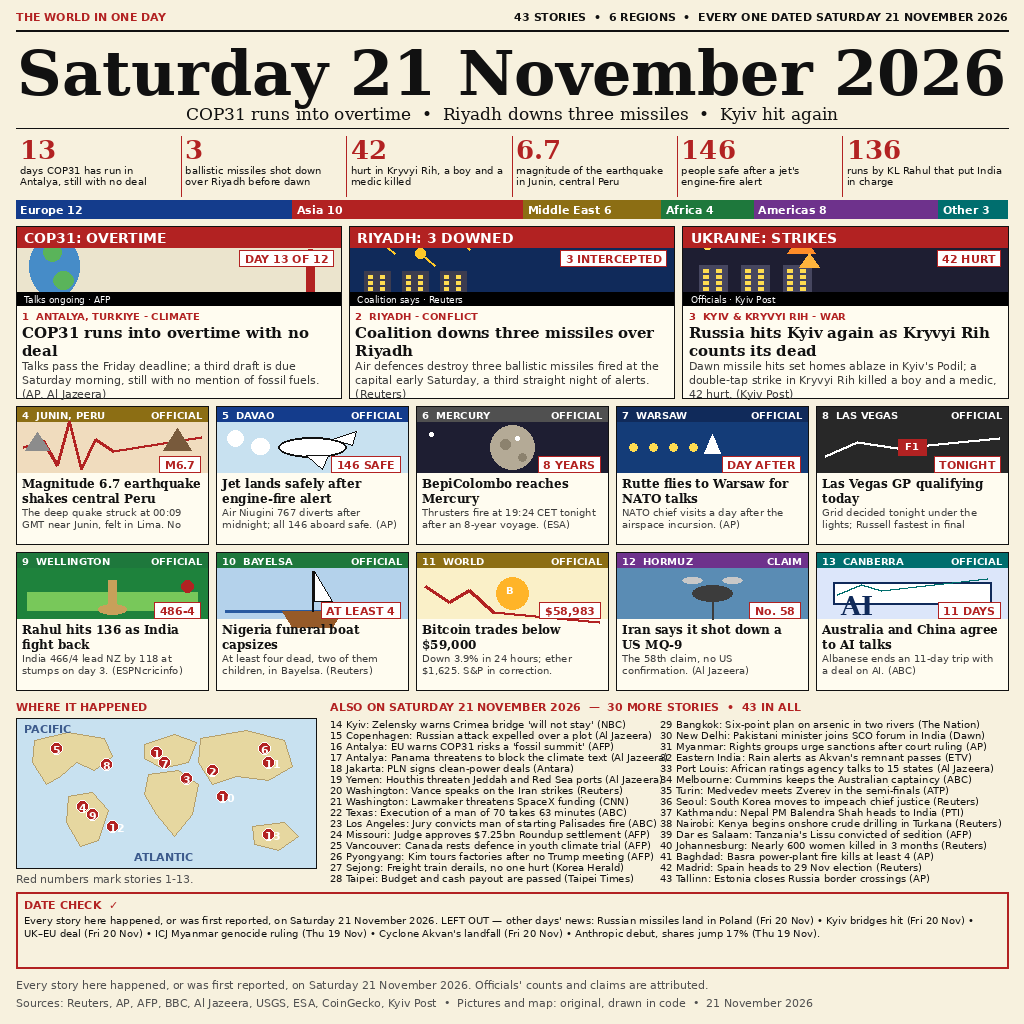
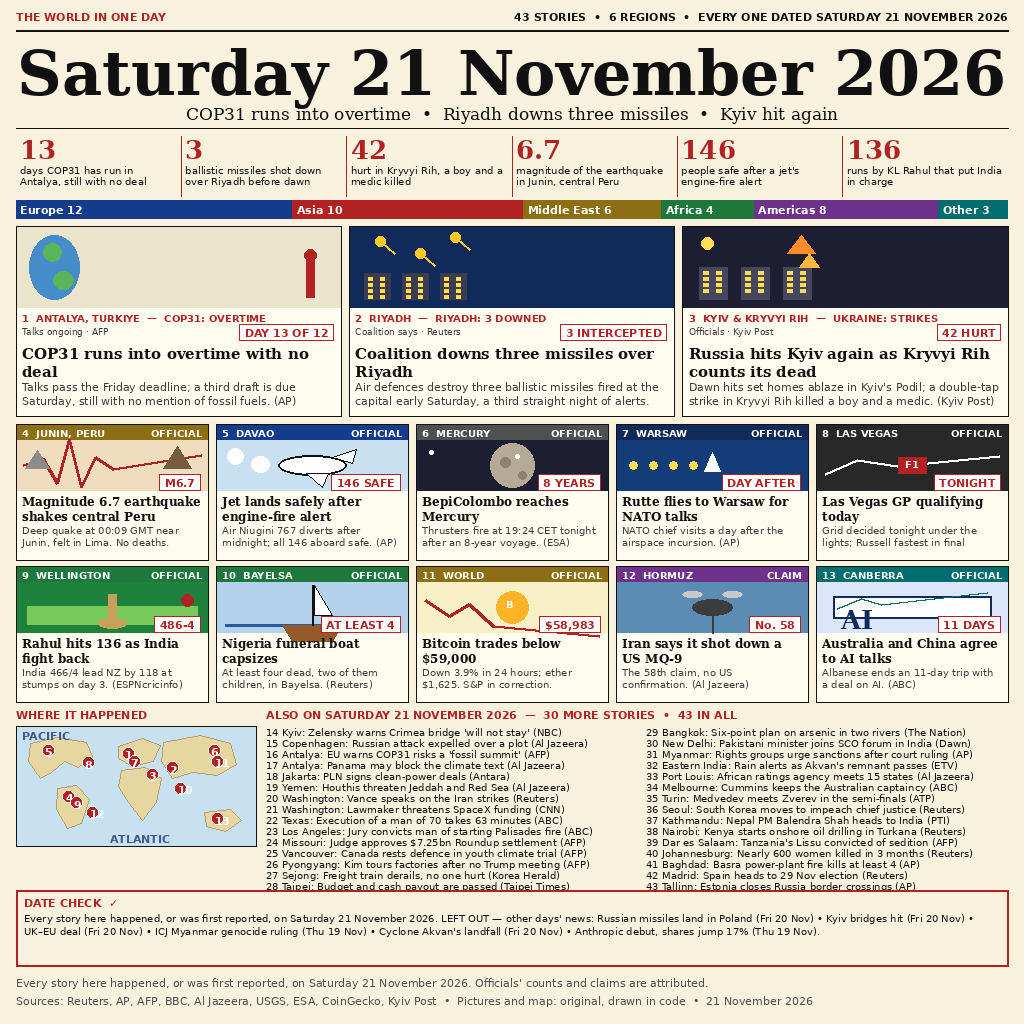
The World Today v5 — 21 November 2026: 43 dated stories, 13 illustrated cards

Changed region(s): [[0.0, 0.2188, 1.0, 1.0]]

diff --git a/draw.py b/draw.py
@@ -155,23 +155,23 @@ def pic(d, kind, x, y, w, h):
 
 # n, tag, strip colour, picture, banner, badge, caption, headline, summary, status
 HEROES = [
-    dict(n=1, tag="ANTALYA, TURKIYE - CLIMATE", col=TEAL, kind="globe",
+    dict(n=1, tag="ANTALYA, TURKIYE", col=TEAL, kind="globe",
          banner="COP31: OVERTIME", stat="DAY 13 OF 12", cap="Talks ongoing · AFP",
          head="COP31 runs into overtime with no deal",
-         body="Talks pass the Friday deadline; a third draft is due Saturday morning, still with no mention of fossil fuels. (AP, Al Jazeera)", st="OFFICIAL"),
-    dict(n=2, tag="RIYADH - CONFLICT", col=NAVY, kind="missile",
+         body="Talks pass the Friday deadline; a third draft is due Saturday, still with no mention of fossil fuels. (AP)", st="OFFICIAL"),
+    dict(n=2, tag="RIYADH", col=NAVY, kind="missile",
          banner="RIYADH: 3 DOWNED", stat="3 INTERCEPTED", cap="Coalition says · Reuters",
          head="Coalition downs three missiles over Riyadh",
          body="Air defences destroy three ballistic missiles fired at the capital early Saturday, a third straight night of alerts. (Reuters)", st="OFFICIAL"),
-    dict(n=3, tag="KYIV & KRYVYI RIH - WAR", col=RED, kind="kyiv",
+    dict(n=3, tag="KYIV & KRYVYI RIH", col=RED, kind="kyiv",
          banner="UKRAINE: STRIKES", stat="42 HURT", cap="Officials · Kyiv Post",
          head="Russia hits Kyiv again as Kryvyi Rih counts its dead",
-         body="Dawn missile hits set homes ablaze in Kyiv's Podil; a double-tap strike in Kryvyi Rih killed a boy and a medic, 42 hurt. (Kyiv Post)", st="REPORTED"),
+         body="Dawn hits set homes ablaze in Kyiv's Podil; a double-tap strike in Kryvyi Rih killed a boy and a medic. (Kyiv Post)", st="REPORTED"),
 ]
 SMALLS = [
     dict(n=4, tag="JUNIN, PERU", col=(140, 110, 20), kind="quake",
          stat="M6.7", head="Magnitude 6.7 earthquake shakes central Peru",
-         body="The deep quake struck at 00:09 GMT near Junin, felt in Lima. No deaths reported. (USGS)", st="OFFICIAL"),
+         body="Deep quake at 00:09 GMT near Junin, felt in Lima. No deaths. (USGS)", st="OFFICIAL"),
     dict(n=5, tag="DAVAO", col=(20, 60, 140), kind="plane",
          stat="146 SAFE", head="Jet lands safely after engine-fire alert",
          body="Air Niugini 767 diverts after midnight; all 146 aboard safe. (AP)", st="OFFICIAL"),
@@ -204,9 +204,9 @@ MORE = [
     "14 Kyiv: Zelensky warns Crimea bridge 'will not stay' (NBC)",
     "15 Copenhagen: Russian attack expelled over a plot (Al Jazeera)",
     "16 Antalya: EU warns COP31 risks a 'fossil summit' (AFP)",
-    "17 Antalya: Panama threatens to block the climate text (Al Jazeera)",
+    "17 Antalya: Panama may block the climate text (Al Jazeera)",
     "18 Jakarta: PLN signs clean-power deals (Antara)",
-    "19 Yemen: Houthis threaten Jeddah and Red Sea ports (Al Jazeera)",
+    "19 Yemen: Houthis threaten Jeddah and Red Sea (Al Jazeera)",
     "20 Washington: Vance speaks on the Iran strikes (Reuters)",
     "21 Washington: Lawmaker threatens SpaceX funding (CNN)",
     "22 Texas: Execution of a man of 70 takes 63 minutes (ABC)",
@@ -220,12 +220,12 @@ MORE = [
     "30 New Delhi: Pakistani minister joins SCO forum in India (Dawn)",
     "31 Myanmar: Rights groups urge sanctions after court ruling (AP)",
     "32 Eastern India: Rain alerts as Akvan's remnant passes (ETV)",
-    "33 Port Louis: African ratings agency talks to 15 states (Al Jazeera)",
+    "33 Port Louis: African ratings agency meets 15 states (Al Jazeera)",
     "34 Melbourne: Cummins keeps the Australian captaincy (ABC)",
     "35 Turin: Medvedev meets Zverev in the semi-finals (ATP)",
     "36 Seoul: South Korea moves to impeach chief justice (Reuters)",
     "37 Kathmandu: Nepal PM Balendra Shah heads to India (PTI)",
-    "38 Nairobi: Kenya begins onshore crude drilling in Turkana (Reuters)",
+    "38 Nairobi: Kenya starts onshore oil drilling in Turkana (Reuters)",
     "39 Dar es Salaam: Tanzania's Lissu convicted of sedition (AFP)",
     "40 Johannesburg: Nearly 600 women killed in 3 months (Reuters)",
     "41 Baghdad: Basra power-plant fire kills at least 4 (AP)",
@@ -235,19 +235,17 @@ MORE = [
 
 def hero_card(d, x, y, w, h, c):
     d.rectangle([x, y, x + w, y + h], outline=INK, width=1, fill=CREAM)
-    pic(d, c["kind"], x + 1, y + 1, w - 2, 78)
-    d.rectangle([x + 1, y + 1, x + w - 1, y + 21], fill=RED)
-    d.text((x + 8, y + 4), c["banner"], font=F_BANNER, fill=(255, 255, 255))
-    badge(d, x + w - 8 - (d.textlength(c["stat"], font=F_BADGE) + 10), y + 24, c["stat"])
-    d.rectangle([x + 1, y + 66, x + w - 1, y + 79], fill=(0, 0, 0))
-    d.text((x + 8, y + 68), c["cap"], font=F_CAP, fill=(255, 255, 255))
-    ty = y + 84
-    d.text((x + 6, ty), f"{c['n']}  {c['tag']}", font=F_TAG, fill=RED)
-    ty += 13
+    pic(d, c["kind"], x + 1, y + 1, w - 2, 80)
+    ty = y + 86
+    d.text((x + 6, ty), f"{c['n']}  {c['tag']}  —  {c['banner']}", font=F_TAG, fill=RED)
+    ty += 14
+    d.text((x + 6, ty), c["cap"], font=F_CAP, fill=DIM)
+    badge(d, x + w - 8 - (d.textlength(c["stat"], font=F_BADGE) + 10), ty - 2, c["stat"])
+    ty += 18
     for ln in wrap(d, c["head"], F_H, w - 12)[:2]:
         d.text((x + 6, ty), ln, font=F_H, fill=INK)
         ty += 18
-    for ln in wrap(d, c["body"], F_B, w - 12)[:3]:
+    for ln in wrap(d, c["body"], F_B, w - 12)[:2]:
         d.text((x + 6, ty), ln, font=F_B, fill=DIM)
         ty += 14
 
@@ -268,6 +266,11 @@ def small_card(d, x, y, w, h, c):
 
 def draw_map(d, mx, my, mw, mh):
     d.rectangle([mx, my, mx + mw, my + mh], fill=(200, 225, 240), outline=INK)
+    sx, sy = mw / 300.0, mh / 150.0
+    def X(px):
+        return mx + px * sx
+    def Y(py):
+        return my + py * sy
     # Rough continents as polygons, in map-local coordinates.
     na = [(18, 22), (52, 14), (88, 20), (96, 38), (78, 52), (60, 44), (44, 58), (30, 66), (16, 44)]
     sa = [(52, 78), (76, 74), (92, 92), (82, 122), (64, 128), (50, 104)]
@@ -276,13 +279,13 @@ def draw_map(d, mx, my, mw, mh):
     asia = [(184, 20), (230, 12), (268, 22), (276, 48), (252, 62), (220, 58), (196, 66), (182, 44)]
     au = [(236, 108), (268, 104), (282, 118), (262, 132), (238, 126)]
     for poly in (na, sa, eu, af, asia, au):
-        d.polygon([(mx + px, my + py) for px, py in poly], fill=(230, 215, 160), outline=(180, 160, 110))
-    d.text((mx + 8, my + 4), "PACIFIC", font=F_SB, fill=(60, 90, 140))
-    d.text((mx + 118, my + 132), "ATLANTIC", font=F_SB, fill=(60, 90, 140))
+        d.polygon([(X(px), Y(py)) for px, py in poly], fill=(230, 215, 160), outline=(180, 160, 110))
+    d.text((X(8), Y(4)), "PACIFIC", font=F_SB, fill=(60, 90, 140))
+    d.text((X(118), Y(132)), "ATLANTIC", font=F_SB, fill=(60, 90, 140))
     pins = [(140, 34), (196, 52), (170, 60), (66, 88), (40, 30), (248, 30), (148, 44), (90, 46), (76, 96), (206, 78), (252, 44), (96, 108), (252, 116)]
     for i, (px, py) in enumerate(pins):
-        d.ellipse([mx + px - 6, my + py - 6, mx + px + 6, my + py + 6], fill=RED, outline=(255, 255, 255))
-        d.text((mx + px - 3, my + py - 5), str(i + 1), font=F_SB, fill=(255, 255, 255))
+        d.ellipse([X(px) - 6, Y(py) - 6, X(px) + 6, Y(py) + 6], fill=RED, outline=(255, 255, 255))
+        d.text((X(px) - 3, Y(py) - 5), str(i + 1), font=F_SB, fill=(255, 255, 255))
 
 def build():
     img = Image.new("RGB", (PAGE, PAGE), PAPER)
@@ -321,23 +324,22 @@ def build():
         x += seg
     hw = (PAGE - 32 - 16) / 3
     for i, c in enumerate(HEROES):
-        hero_card(d, 16 + i * (hw + 8), 226, hw, 172, c)
+        hero_card(d, 16 + i * (hw + 8), 226, hw, 190, c)
     sw = (PAGE - 32 - 32) / 5
-    y = 406
+    y = 424
     for r in range(2):
         for i in range(5):
-            small_card(d, 16 + i * (sw + 8), y, sw, 138, SMALLS[r * 5 + i])
-        y += 146
-    y = 700
+            small_card(d, 16 + i * (sw + 8), y, sw, 136, SMALLS[r * 5 + i])
+        y += 142
+    y = 708
     d.text((16, y), "WHERE IT HAPPENED", font=F_SB, fill=RED)
-    d.text((330, y), "ALSO ON SATURDAY 21 NOVEMBER 2026  —  30 MORE STORIES  •  43 IN ALL", font=F_SB, fill=RED)
-    draw_map(d, 16, y + 18, 300, 150)
-    d.text((16, y + 172), "Red numbers mark stories 1-13.", font=F_S, fill=(80, 80, 80))
+    d.text((266, y), "ALSO ON SATURDAY 21 NOVEMBER 2026  —  30 MORE STORIES  •  43 IN ALL", font=F_SB, fill=RED)
+    draw_map(d, 16, y + 18, 240, 120)
     for i, s in enumerate(MORE):
         col = i // 15
         row = i % 15
-        d.text((330 + col * 330, y + 18 + row * 11), s, font=F_LIST, fill=INK)
-    by = 892
+        d.text((266 + col * 380, y + 18 + row * 11), s, font=F_LIST, fill=INK)
+    by = 890
     d.rectangle([16, by, PAGE - 16, by + 76], outline=RED, width=2)
     d.text((24, by + 6), "DATE CHECK  ✓", font=F_SB, fill=RED)
     note = ("Every story here happened, or was first reported, on Saturday 21 November 2026. LEFT OUT — other days' news: "
@@ -347,9 +349,9 @@ def build():
     for ln in wrap(d, note, F_BS, PAGE - 48):
         d.text((24, ty), ln, font=F_BS, fill=INK)
         ty += 13
-    d.text((16, 978), "Every story here happened, or was first reported, on Saturday 21 November 2026. Officials' counts and claims are attributed.",
+    d.text((16, 976), "Every story here happened, or was first reported, on Saturday 21 November 2026. Officials' counts and claims are attributed.",
            font=F_S, fill=(80, 80, 80))
-    d.text((16, 996), "Sources: Reuters, AP, AFP, BBC, Al Jazeera, USGS, ESA, CoinGecko, Kyiv Post  •  Pictures and map: original, drawn in code  •  21 November 2026",
+    d.text((16, 994), "Sources: Reuters, AP, AFP, BBC, Al Jazeera, USGS, ESA, CoinGecko, Kyiv Post  •  Pictures and map: original, drawn in code  •  21 November 2026",
            font=F_S, fill=(80, 80, 80))
     img.save(os.path.join(os.path.dirname(os.path.abspath(__file__)), "entry.png"))
     print("saved entry.png", img.size)
